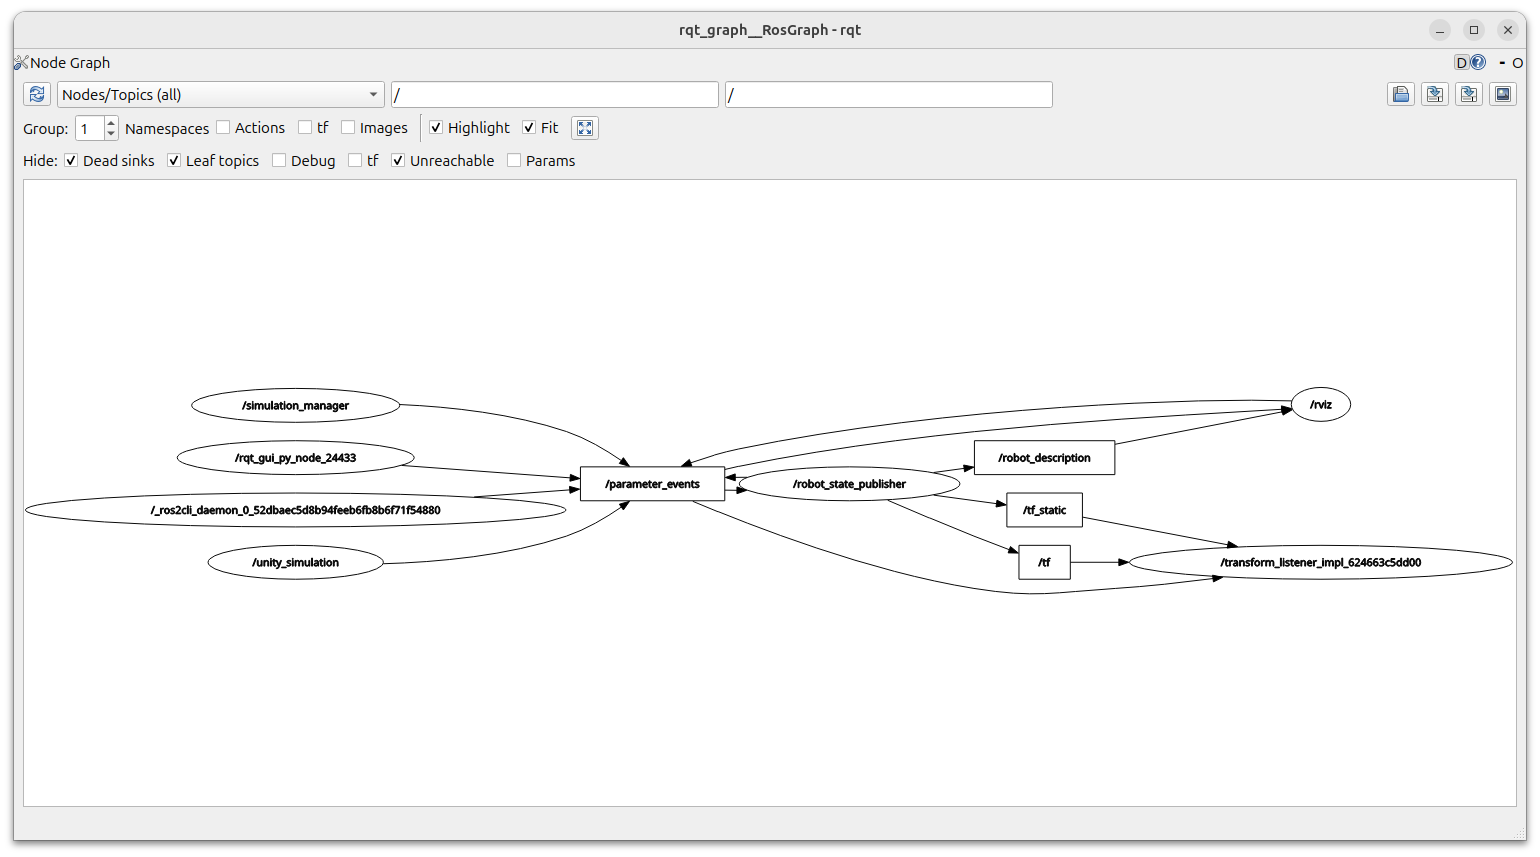
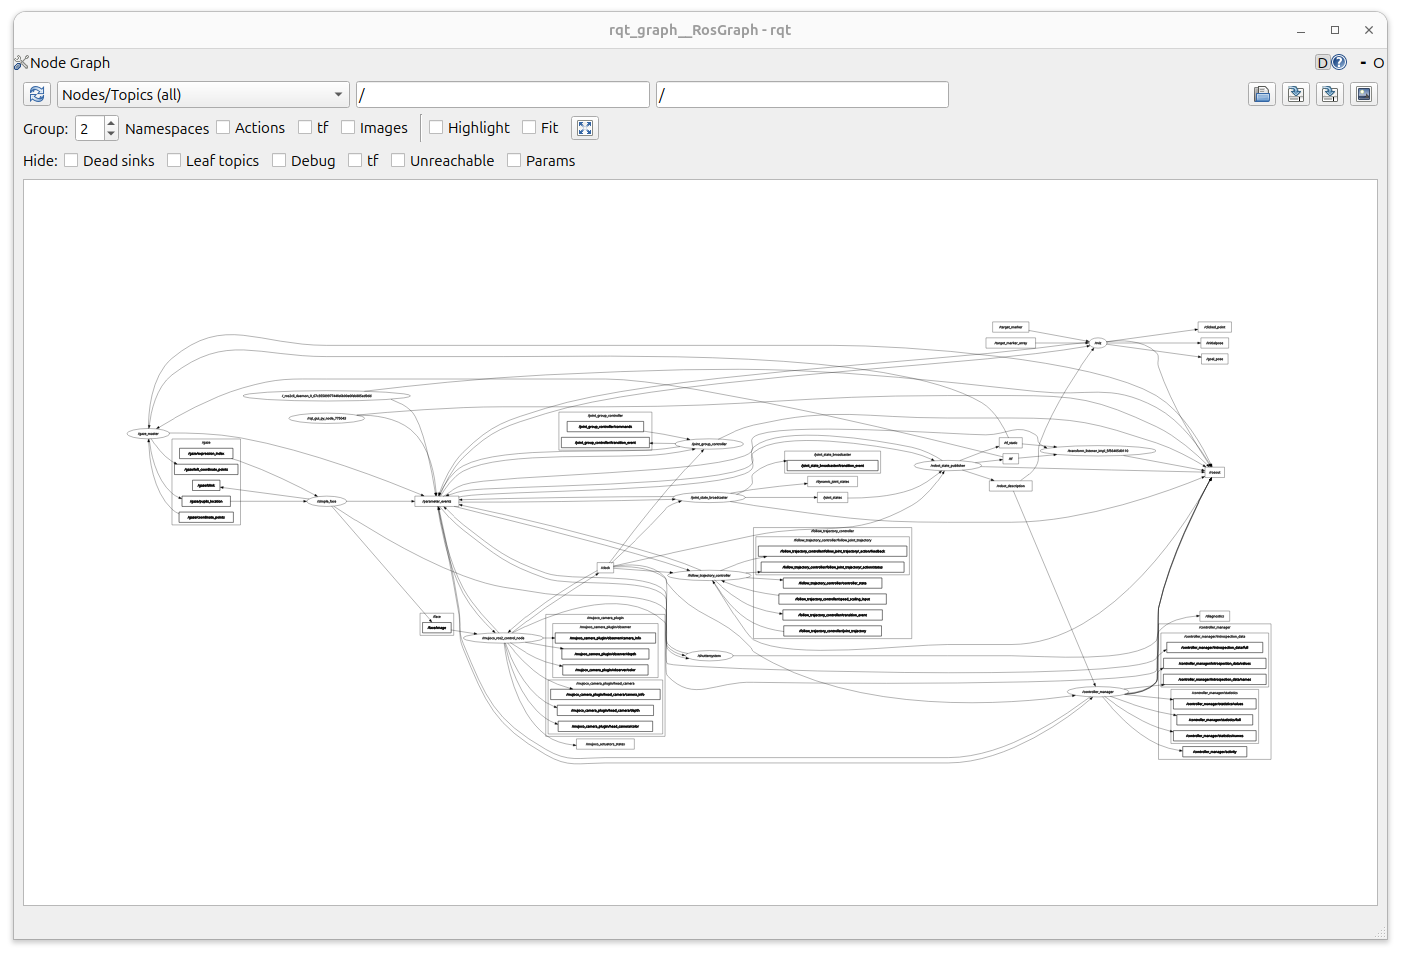
added images

diff --git a/SETUP0_ROSWorkspace.md b/SETUP0_ROSWorkspace.md
@@ -162,7 +162,7 @@ with [ros2 launch](https://docs.ros.org/en/jazzy/Tutorials/Beginner-CLI-Tools/La
 
     The information about the robot state is sent to [tf2](https://docs.ros.org/en/jazzy/Tutorials/Intermediate/Tf2/Tf2-Main.html), which stores and helps reason about all the coordinate systems in the ROS network. 
 
-2. Visualize the robot model and its coordinate frames in [RViz2](https://docs.ros.org/en/jazzy/Tutorials/Intermediate/RViz/RViz-Main.html)--the main visualization interface in ROS:
+2. Visualize the robot model and its coordinate frames in [RViz2](https://docs.ros.org/en/jazzy/Tutorials/Intermediate/RViz/RViz-Main.html)--the main visualization interface in ROS. In a new terminal, where you have sourced your workspace `setup.bash`, run:
 
     ```bash
     ros2 run rviz2 rviz2 --d ~/ros2_ws/src/f26-assignments/config/shutter-model.rviz
@@ -177,8 +177,8 @@ with [ros2 launch](https://docs.ros.org/en/jazzy/Tutorials/Beginner-CLI-Tools/La
     Each coordinate frame in the robot associated with a [link](https://wiki.ros.org/urdf/XML/link). For example: 
 
     1. `shutter_base_link`, which is at the very bottom of the robot with the $x$ axis (red) pointing forward; 
-    2. `shutter_shoulder_link`, which is above `base_link` and allows the robot to rotate left and right (yaw angle); 
-    3. `shutter_biceps_link`, which is above `shoulder_link` and allows the robot's head to move forward and backward;
+    2. `shutter_shoulder_link`, which is above `shutter_base_link` and allows the robot to rotate left and right (yaw angle); 
+    3. `shutter_biceps_link`, which is above `shutter_shoulder_link` and allows the robot's head to move forward and backward;
     4. `shutter_forearm_link`, which allows the head to move up and down; and
     5. `shutter_wrist_link`, which allows the head to tilt.
 
@@ -190,33 +190,64 @@ with [ros2 launch](https://docs.ros.org/en/jazzy/Tutorials/Beginner-CLI-Tools/La
     its screen.
 
 
-3. Try commanding the robot from the command line. You can send specific requests for the position of each
-of the 4 joints in the robot as follows:
+3. Try commanding the robot from the command line. First, let's see what control options are available. In a new terminal, after sourcing your workspace `setup.bash`, run:
 
     ```bash
-    $ ros2 topic pub --once /unity_joint_group_controller/command std_msgs/msg/Float64MultiArray "data: [0.0, -1.5, -1.0, 0.0]"
+    $ ros2 control list_controllers
+    ```
+    You should then see a list with three elements:
+    - `joint_group_controller`: position controller that takes as input the position in radians for each of the 4 joints in the robot. The controller claims the joint's position command interface (inactive).
+    - `follow_trajectory_controller`: trajectory controller that takes as input 1 or more joint positions, so you can make the robot motion follow a sequence of commands with a single instruction. The controller claims the joint's position command interface as well so it cannot be active when `joint_group_controller` is active (active). 
+    - `joint_state_broadcaster`: state interface that broadcasts the joint states in `/joint_states`, e.g., so that `tf` can update the coordinate frames in the robot's body (active)  
+
+    With the `follow_trajectory_controller` being active, you can now command the robot by sending it a `trajectory` of poses. For example, in the same  terminal, run:
+    ```bash
+    ros2 topic pub --once /follow_trajectory_controller/joint_trajectory \
+    trajectory_msgs/msg/JointTrajectory "{
+    joint_names: ['joint_1', 'joint_2', 'joint_3', 'joint_4'],
+    points: [
+        {positions: [1.5, 0.0, 0.0, 0.0], time_from_start: {sec: 2, nanosec: 0}},
+        {positions: [0.0, 0.0, 0.0, 0.0], time_from_start: {sec: 4, nanosec: 0}}
+    ]
+    }"
     ```
 
-    The [ros2 topic](https://docs.ros.org/en/jazzy/Tutorials/Beginner-CLI-Tools/Understanding-ROS2-Topics/Understanding-ROS2-Topics.html) tool used above publishes a message to the `/unity_joint_group_controller/command` topic. This message has [std_msgs/msg/Float64MultiArray](https://docs.ros2.org/api/std_msgs/msg/Float64MultiArray.html) as type.This type has two fields `data` and `layout`, but the above command only sets the `data` field to "[0.0, -1.5, -1.0, 0.0]". 
-    
-    Each of the values in the array correspond to the position of one joint in Shutter (in radians). That is, the command requests the robot to set its first joint (the servo in the base of the robot) to the position "0.0" radians, which makes the robot look forward. Similarly, the command requests that the robot sets its second joint to the position "-1.54" radians. You can try sending other servo positions to the robot by repeating the command line above with different values for the `data` field.
+    <img src="images/shutter-traj.gif"/>
 
-    > Note that the MuJoCo simulation would stop the robot from moving upon self-collisions. For example,
-    if you send the command above with: "data: [0.0, -1.5, -1.0, -2.0]" then the robot would only
-    reach a position close to [0.0, -1.5, -1.0, -1.57]. You can check which position the robot has at any time during the simulation with the following command:
+    The prior [ros2 topic](https://docs.ros.org/en/jazzy/Tutorials/Beginner-CLI-Tools/Understanding-ROS2-Topics/Understanding-ROS2-Topics.html) tool publishes a message to the `/follow_trajectory_controller/joint_trajectory` topic. This message has [trajectory_msgs/msg/JointTrajectory](https://docs.ros.org/en/jazzy/p/trajectory_msgs/msg/JointTrajectory.html) as type. Specifically, we provide two set of commands for the robot, separated by 2 seconds in time. The only difference between the commands is the position of the first joint (the first value in the `positions` field), so the robot rotates to look to its left (1.5 radians) and then looks forward again (0 radians). You can try sending other trajectories to the robot by changing the entries in the `points` list.
+    
+    To change controllers, run:
+    ```bash
+    ros2 control switch_controllers \
+        --activate joint_group_controller \
+        --deactivate follow_trajectory_controller
+    ```
+
+    So you should now see:
+    ```bash
+    $ ros2 control list_controllers
+    joint_group_controller       position_controllers/JointGroupPositionController      active  
+    follow_trajectory_controller joint_trajectory_controller/JointTrajectoryController  inactive
+    joint_state_broadcaster      joint_state_broadcaster/JointStateBroadcaster          active  
+    ```
+
+    And you can now control the robot with a given position command. For example, the command below would move `joint_2` to position 1.0 (in radians) and `joint_3` to position 1.54:
+    ```bash
+    ros2 topic pub --once /joint_group_controller/commands std_msgs/msg/Float64MultiArray "{data: [0.0, 1.0, 1.54, 0.0]}"
+    ```
+
+    The above command publishes a message to the `/joint_group_controller/commands` topic, which has [std_msgs/msg/Float64MultiArray](https://docs.ros.org/en/jazzy/p/std_msgs/msg/Float64MultiArray.html) type. Each of the values in the array correspond to the position of one joint in Shutter (in radians). That is, the command requests the robot to set its first joint (the servo in the base of the robot) to the position "0.0" radians, which makes the robot look forward. Similarly, the command requests that the robot sets its second joint to the position "1.0" radians. You can try sending other servo positions to the robot by repeating the command line above with different values for the `data` field.
+
+    > Note that the MuJoCo simulation would stop the robot from moving upon self-collisions. For example, if you send the command above with: "data: [0.0, 2.0, 1.54, 0.0]" then the robot would only reach a position close to [0.0, 1.54, 1.54, 0.0]. You can check which position the robot has at any time during the simulation with the following command:
 
     ```bash
     $ ros2 topic echo /joint_states
     ```
 
-3. Visualize the main coordinate frames of the robot's arm in RViz2, as shown in the image below:
+    > Note that the floor in the MuJoCo simulation is deliberately not a physical surface; it is only scenery. The arm can pass through it because there's nothing to hit. Changing this requires a change to the MuJoCo scene, defined in [shutter.scene.xml](https://gitlab.com/interactive-machines/shutter/shutter-ros2/-/blob/bim/shutter_mujoco_sim/mujoco/v.2.0/shutter.scene.xml?ref_type=heads). While this could be useful for a project to avoid environmental collisions, you should not change this scene file for the assignments.
 
 
-    To get this visualization, add a [tf2 Display](https://docs.ros.org/en/jazzy/Tutorials/Intermediate/Tf2/Tf2-Main/Tf2-Main.html) in RViz2
-    and then select the corresponding frames in the tf2/Frames submenu on the left panel.
-
-
-4. Finally, use [rqt_graph](https://docs.ros.org/en/jazzy/Tutorials/Beginner-CLI-Tools/Understanding-ROS2-Nodes/Understanding-ROS2-Nodes.html) to visualize the 
+4. Finally, use [rqt_graph](https://docs.ros.org/en/jazzy/Tutorials/Beginner-CLI-Tools/Understanding-ROS2-Topics/Understanding-ROS2-Topics.html#rqt-graph) to visualize the 
 [nodes](https://docs.ros.org/en/jazzy/Tutorials/Beginner-CLI-Tools/Understanding-ROS2-Nodes/Understanding-ROS2-Nodes.html) that are currently running
 in your ROS 2 system and the [topics](https://docs.ros.org/en/jazzy/Tutorials/Beginner-CLI-Tools/Understanding-ROS2-Topics/Understanding-ROS2-Topics.html) that are being used to 
 exchange information between nodes.
@@ -225,36 +256,36 @@ exchange information between nodes.
     $ ros2 run rqt_graph rqt_graph
     ```
     
-    Uncheck the "Group" options (e.g., "Namespaces" and "Actions") in rqt_graph, uncheck the "Debug", "tf" and "Params" options under "Hide", and select "Nodes/Topics(all)" to visualize all of the nodes that are sharing information in the graph. You should see a total of 7 `ROS 2 nodes` (displayed as ellipses) in the graph: 
+    Uncheck the "Group" options (e.g., "Namespaces" and "Actions") in rqt_graph, uncheck the "Debug", "tf" and "Params" options under "Hide", and select "Nodes/Topics(all)" to visualize all of the nodes that are sharing information in the graph. You should see as many `ROS 2 nodes` (displayed as ellipses) in the graph as what you get with:
+    ```bash
+    ros2 node list --all
+    ``` 
+
+    For example, the image below illustrates an example output for `rqt_graph` when the following nodes were running:
+    ```bash
+    $ ros2 node list --all
+    /_ros2cli_daemon_0_67c3558997744fe6b00e0feb885ed9dd
+    /controller_manager
+    /follow_trajectory_controller
+    /gaze_master
+    /joint_group_controller
+    /joint_state_broadcaster
+    /mujoco_ros2_control_node
+    /robot_state_publisher
+    /rqt_gui_py_node_775043
+    /rviz
+    /shuttersystem
+    /simple_face
+    /transform_listener_impl_5f56405d0110
+    ```
 
     <img src="images/rqtgraph-ros2.png" />
-
-    The nodes in the picture above include:
-    
-    - /robot_state_publisher
-    - /rqt_gui_py_node_XXXXX
-    - /unity_simulation
-    - /simulation_manager
-    - /rviz...
-    <br/>
-    
-    > The full name of the rqt_graph node includes numbers XXXXX, which indicate that the
-    program was run as an anonymous node. The numbers were generated 
-    automatically when the node was initialized to provide the program a unique name, e.g.,
-    in case you want to run multiple versions of rqt_graph. More information about initializing nodes
-    in C++ or Python can be found 
-    [here](https://docs.ros.org/en/jazzy/Tutorials/Beginner-Client-Libraries/Writing-A-Simple-Cpp-Publisher-And-Subscriber.html) or 
-    [here](https://docs.ros.org/en/jazzy/Tutorials/Beginner-Client-Libraries/Writing-A-Simple-Py-Publisher-And-Subscriber.html), respectively.
     
     The nodes are connected in the graph through `ROS 2 topics` (displayed as squares). 
     ROS 2 topics are named buses over which data [messages](https://docs.ros.org/en/jazzy/Tutorials/Beginner-CLI-Tools/Understanding-ROS2-Topics/Understanding-ROS2-Topics.html) are exchanged. 
     There can be multiple publishers and subscribers to a topic. 
     
-    > In general, nodes are not aware of who they are communicating with. 
-    Instead, nodes that are interested in data *subscribe* to the relevant topic; 
-    nodes that generate data *publish* to the relevant topic. 
-    
-    For example, the node /robot_state_publisher publishes messages to the /robot_description topic. Thus, you should see a directed edge in the graph from the node to the topic. 
+    For example, the node `/robot_state_publisher` publishes messages to the `/robot_description` topic. Thus, you should see a directed edge in the graph from the node to the topic. 
     
     > The node [rosout](https://docs.ros.org/en/jazzy/Tutorials/Beginner-CLI-Tools/Understanding-ROS2-Nodes/Understanding-ROS2-Nodes.html) is a "dead sink" in the sense that it does not have subscribers in the current state of the ROS system. It can be revealed in `rqt_graph` by disabling the option to hide "dead sinks". Rosout implements a system-wide logging mechanism for messages sent to the /rosout topic. You can read more about logging in ROS 2 [here](https://docs.ros.org/en/jazzy/Concepts/Intermediate/About-Logging.html).
     
